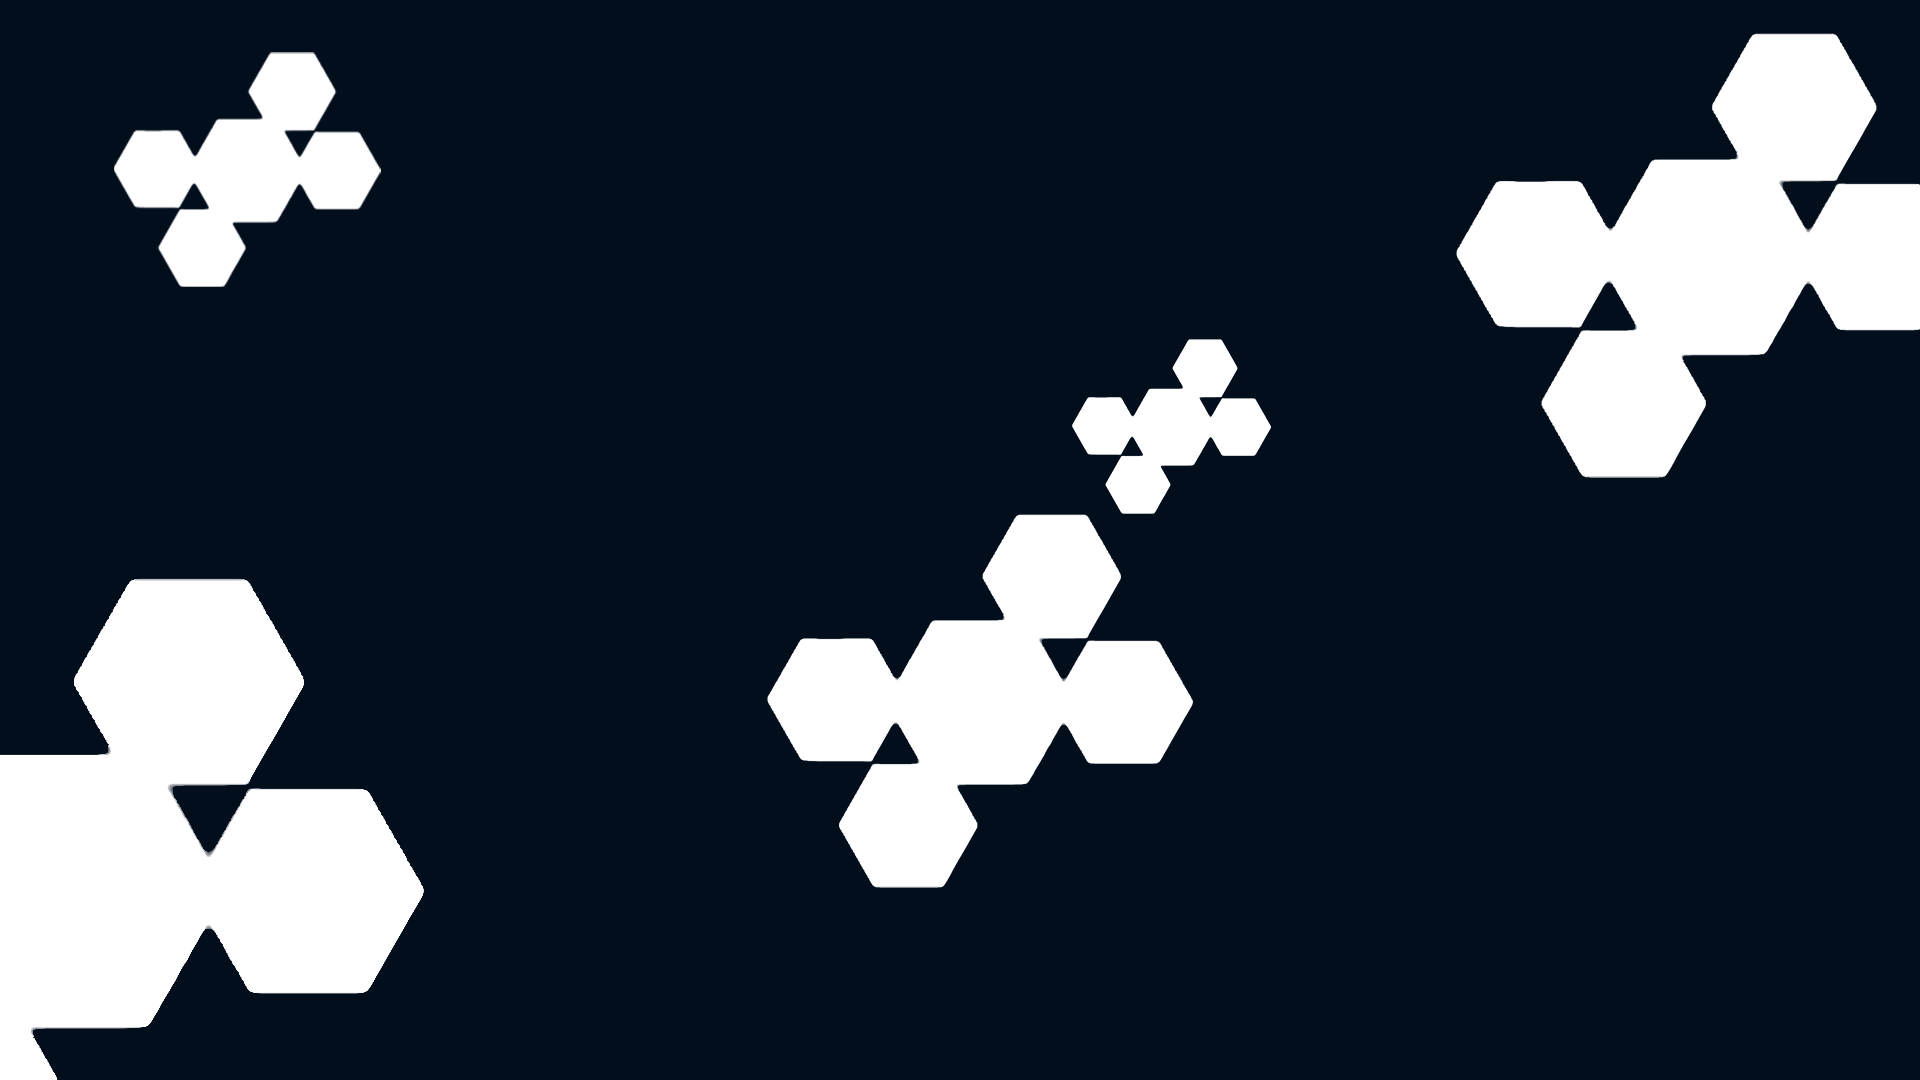
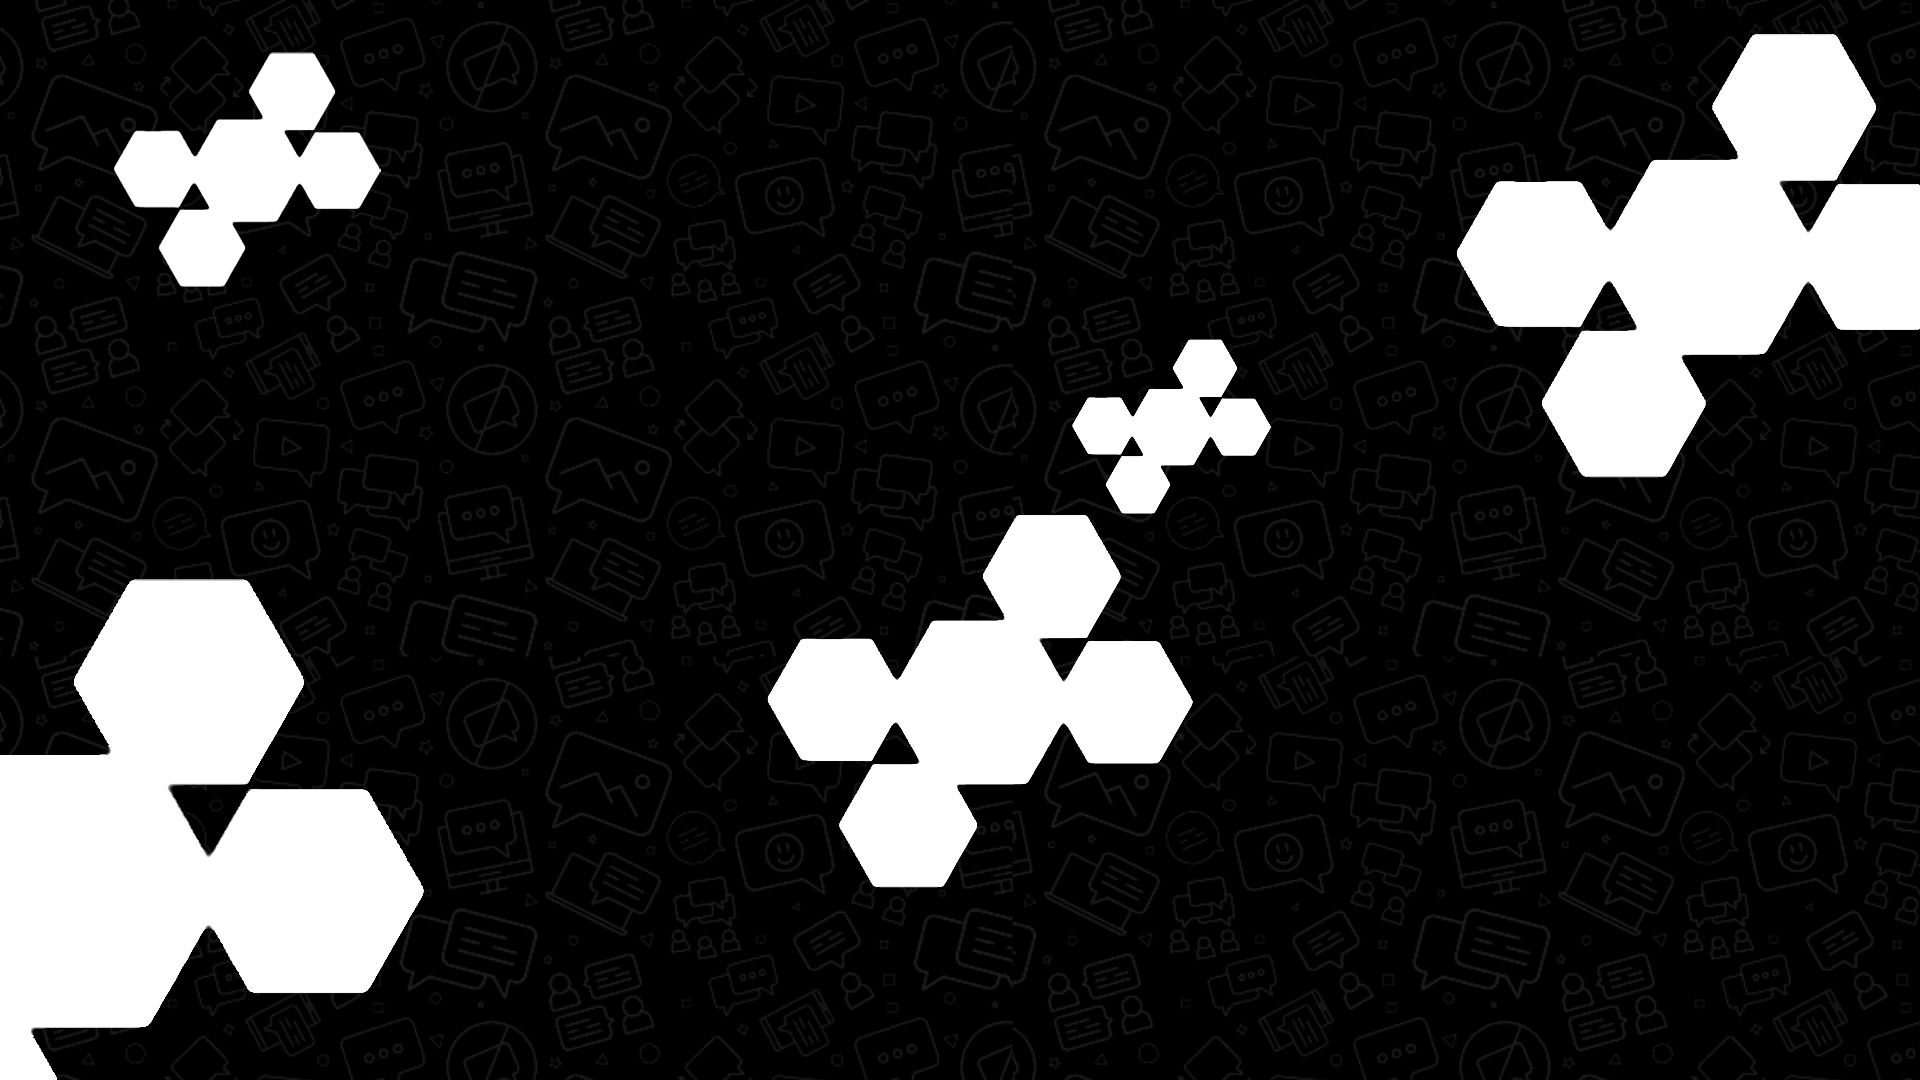
Profile/Posts Styling

diff --git a/frontend/src/index.css b/frontend/src/index.css
@@ -175,7 +175,9 @@ body, html{
     aspect-ratio: 1;
 }
 
-.main{
+.authPage{
+    width: 100%;
+    min-height: 100vh;
     background-image: url(../public/assets/authbg.png);
     background-repeat: no-repeat;
     background-position: center;
@@ -288,13 +290,21 @@ body, html{
 
 /* posts */
 
-.postContainer{
+.posts{
     width: 100%;
-    min-height: 100vh;
-    
+    background-color: black;
     display: flex;
     flex-direction: column;
-    gap: 1rem;
+    align-items: center;
+}
+
+.postContainer{
+    border: 1px solid red;
+    width: 500px;
+    display: flex;
+    align-items: center;
+    flex-direction: column;
+    gap: 2rem;
 }
 
 .postCard{

diff --git a/frontend/src/pages/Register.jsx b/frontend/src/pages/Register.jsx
@@ -84,10 +84,10 @@ function Register() {
   
   return (
     <>
-    <div className="main">
+    <div className='authPage'>
     <div className='container'>
       <form encType='multipart/form-data' onSubmit={handleSubmit}>
-        <h2>Welcome In!</h2>
+        <h2>Ahoy There!</h2>
         <div>
           <div className="entity">
             <input type='text' id='firstName' name='firstName' onChange={handleChange} placeholder='First Name' />

diff --git a/frontend/src/pages/Profile.jsx b/frontend/src/pages/Profile.jsx
@@ -70,10 +70,12 @@ function Profile() {
   },[])
 
   return (
-    <div>
+    <>
+    <div className='posts'>
       <Postcard posts={userPosts} handleLike={handleLike}/>
-      <Toaster/>
     </div>
+    <Toaster/>
+    </>
   )
 }
 

diff --git a/frontend/src/pages/Login.jsx b/frontend/src/pages/Login.jsx
@@ -58,7 +58,7 @@ function Login() {
   
   return (
     <>
-    <div className="main">
+    <div className='authPage'>
     <div className='container'>
       <form onSubmit={handleSubmit}>
         <h2>Welcome Back!</h2>
